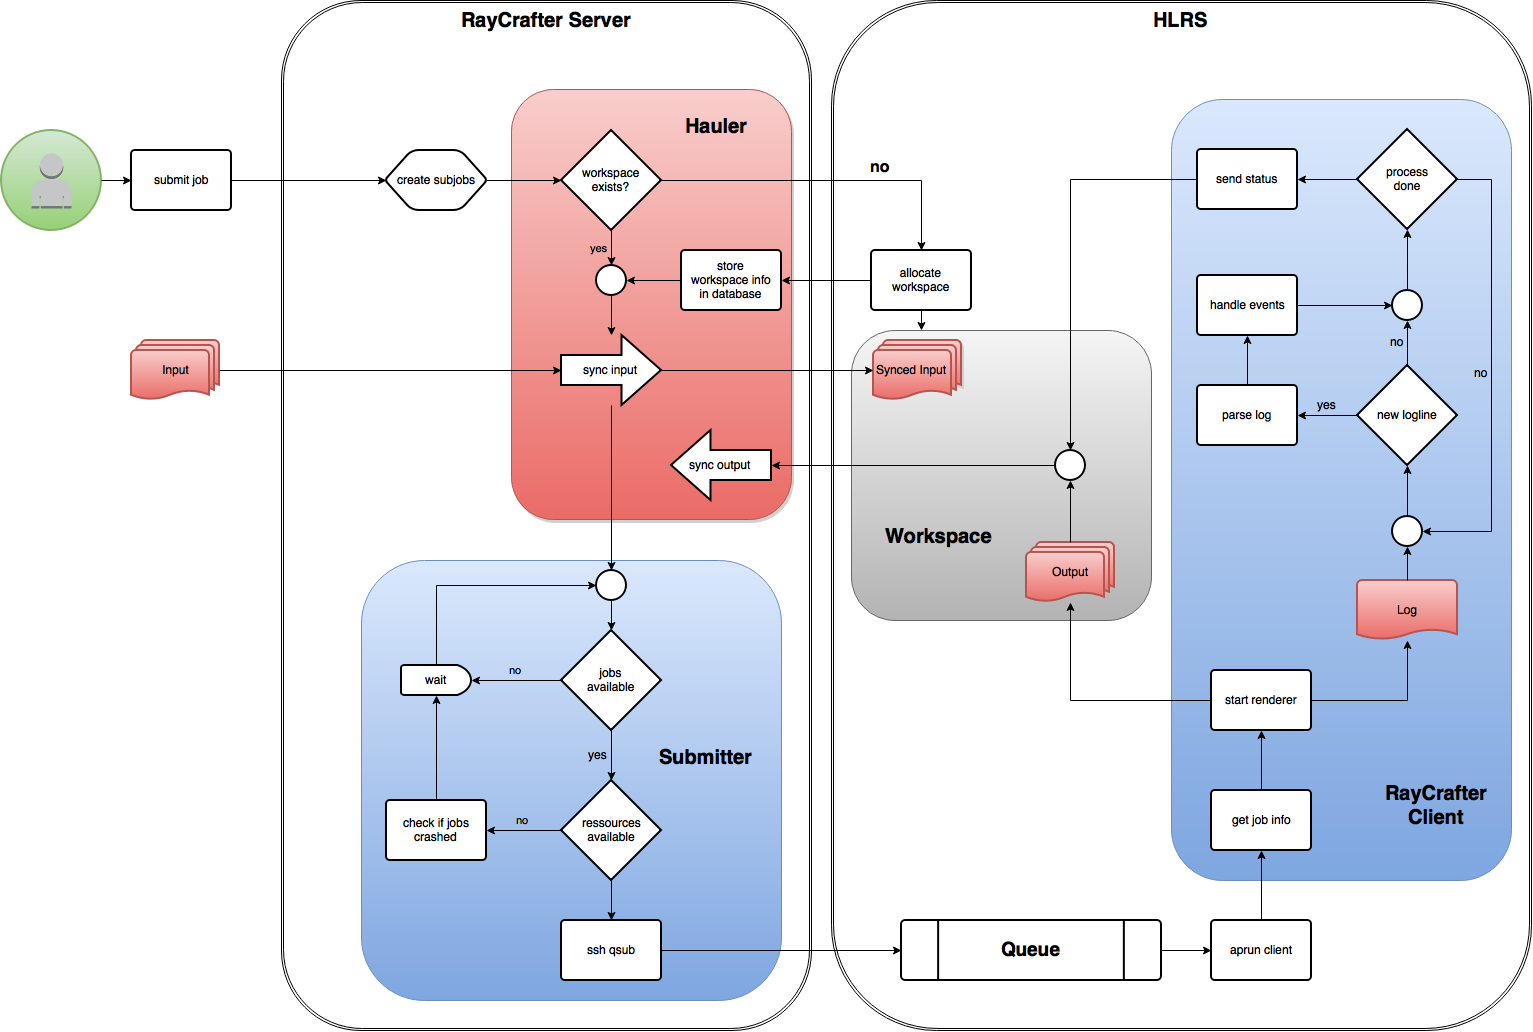
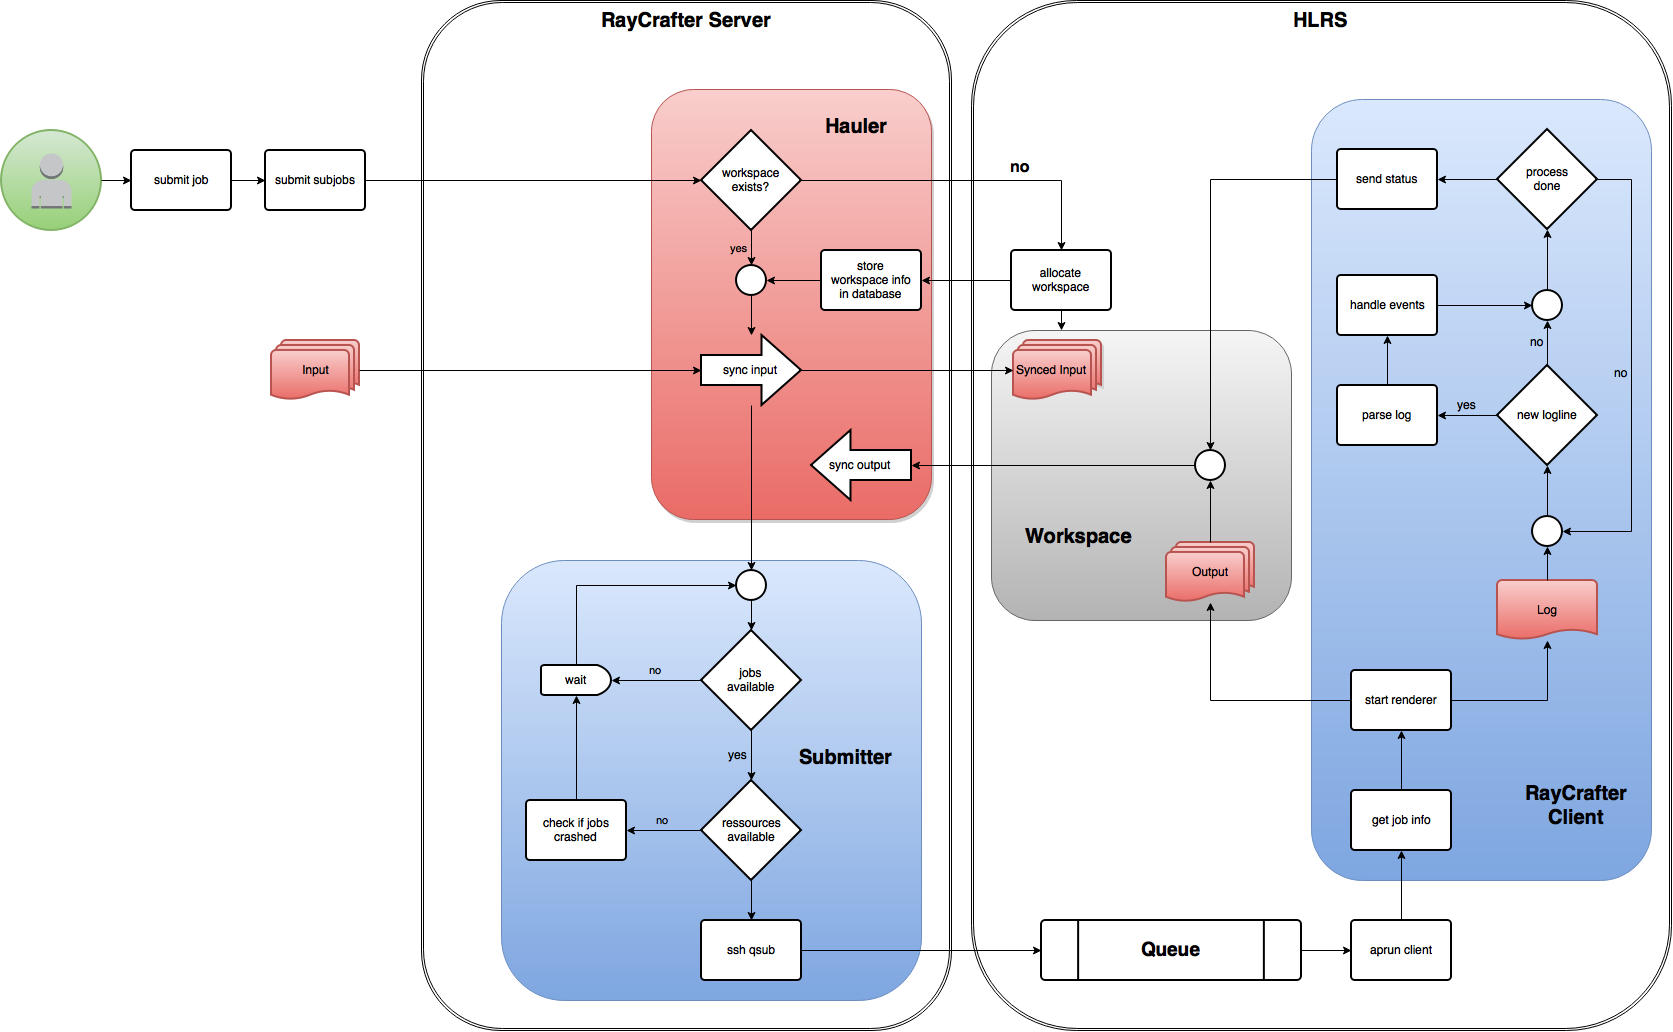
User should explicitly submit subjobs to reduce server logic

diff --git a/docs/source/workflow.rst b/docs/source/workflow.rst
@@ -10,10 +10,22 @@ This section describes process involved in rendering on the cluster.
    :scale: 100%
 
 - It starts with the user submitting a job. This can be done via the REST API.
-  The job might describe a frame range to render.
-- With this information, a job is created in the database. Then subjobs are
-  generated. E.g. one for every frame to render.
+  The job has a name and acts as a group for subjobs
+- Subjobs are the actual jobs that will later get queued on the cluster.
+  A subjob might be a single frame, while a job might bundle a whole framerange.
+  A subjob explicitly describes what the renderer should do (for example
+  which input file to use).
 
+.. Note:: My first thought was to only submit a job, which roughly describes a renderjob,
+          and that the server automatically creates the subjobs.
+          This might seem convenient but the server needs a lot more logic and information.
+          E.g. your input files might be distributed over several directories or all in the
+          same place. The server would need to know a lot about the pipeline.
+          The problem is, that the server might not be able to scan a directory, because
+          he doesn't even have access. So the explicit approach enables the Hauler to
+          live on a different server which actually has access to the filesystem and
+          can transfer data via :ref:`gridftp` or something similar.
+  
 Hauler:
 
 - Now the input data has to be transferred to the cluster.
